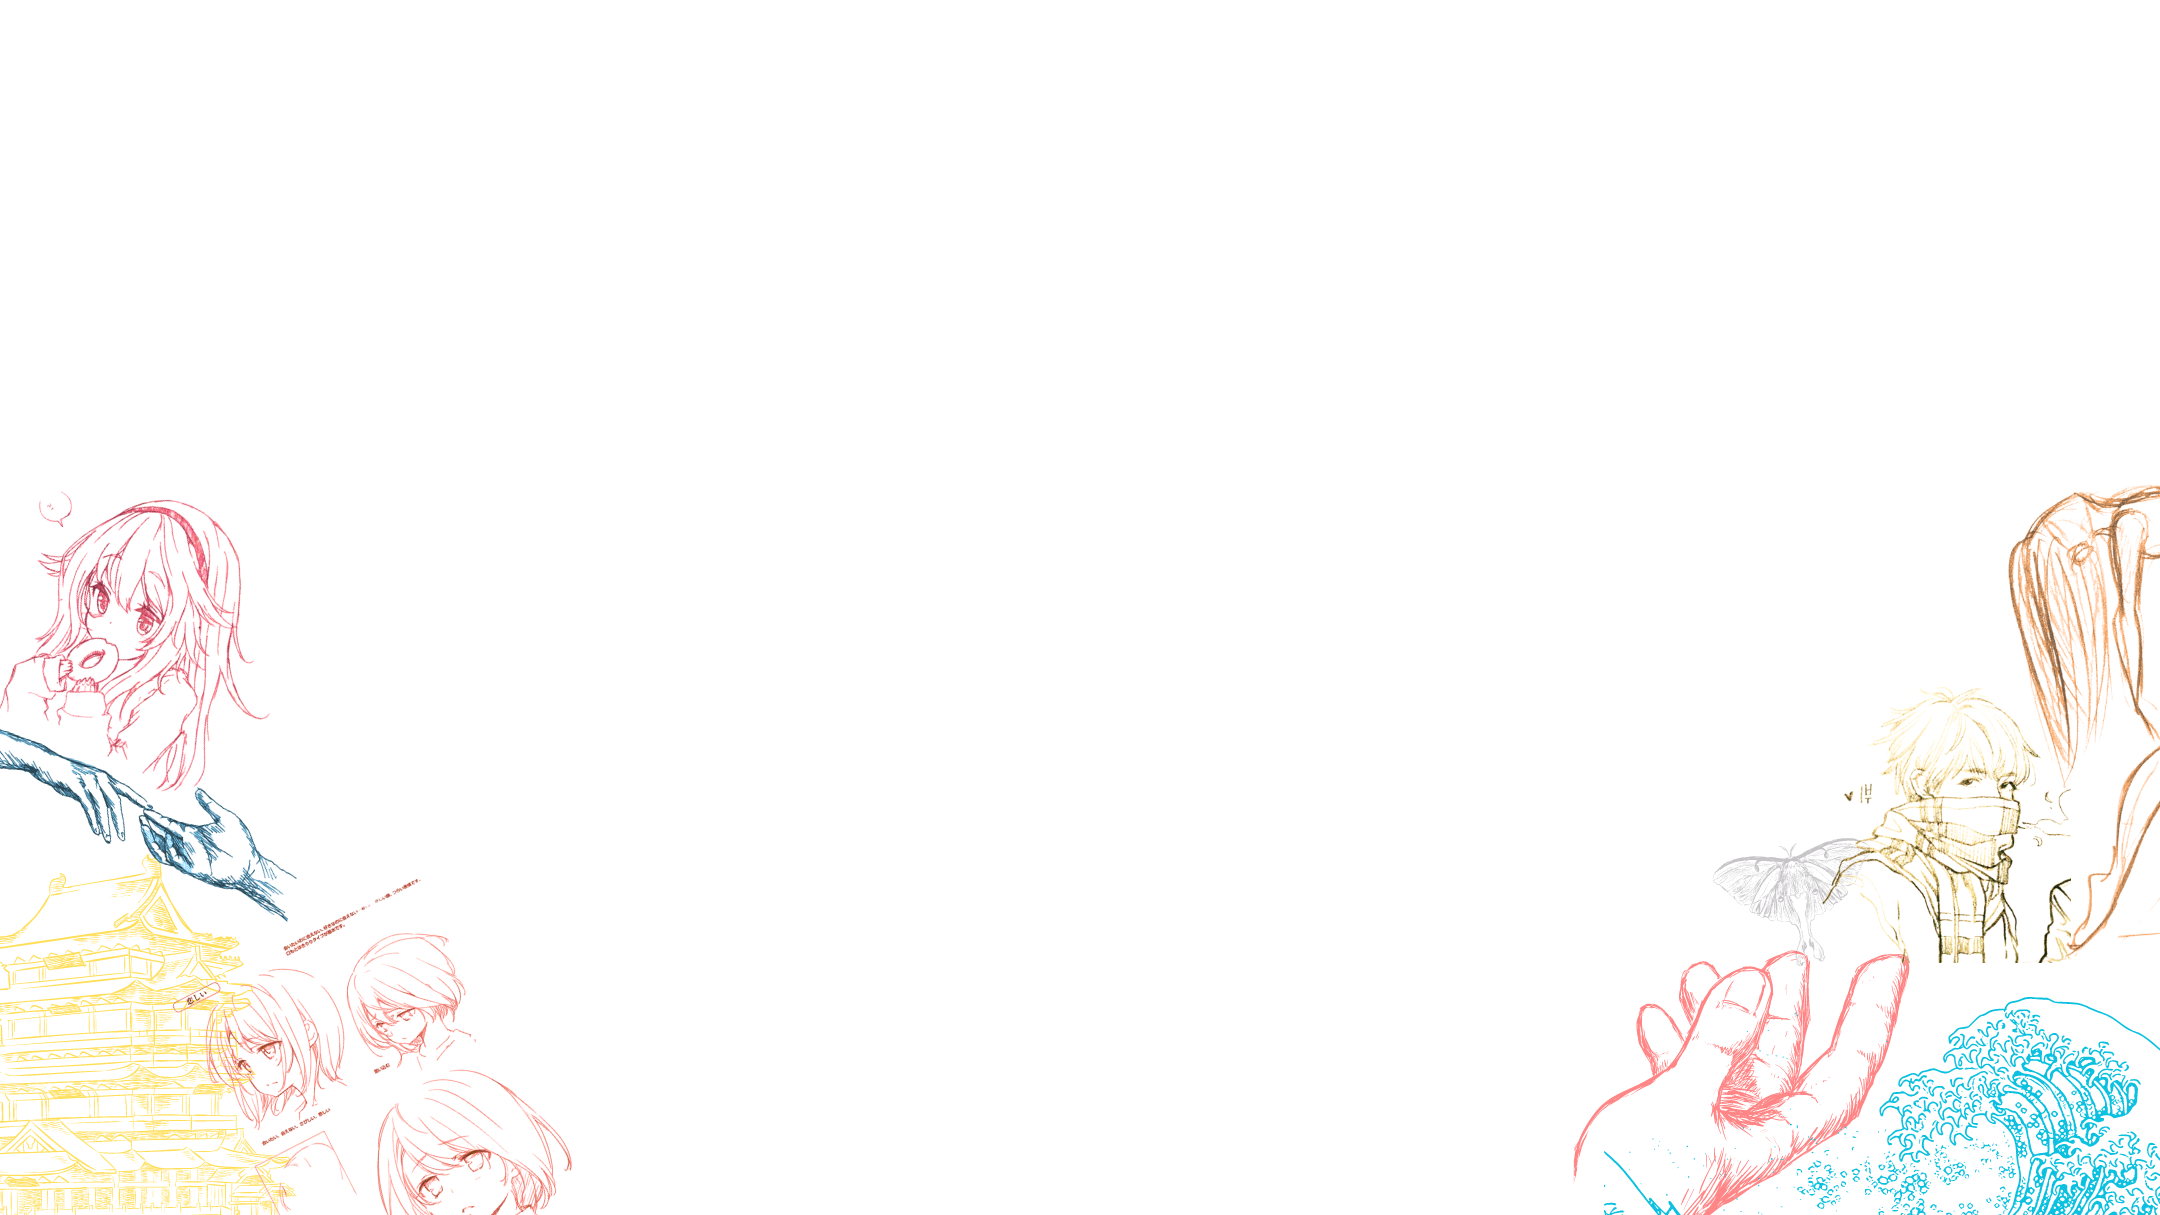
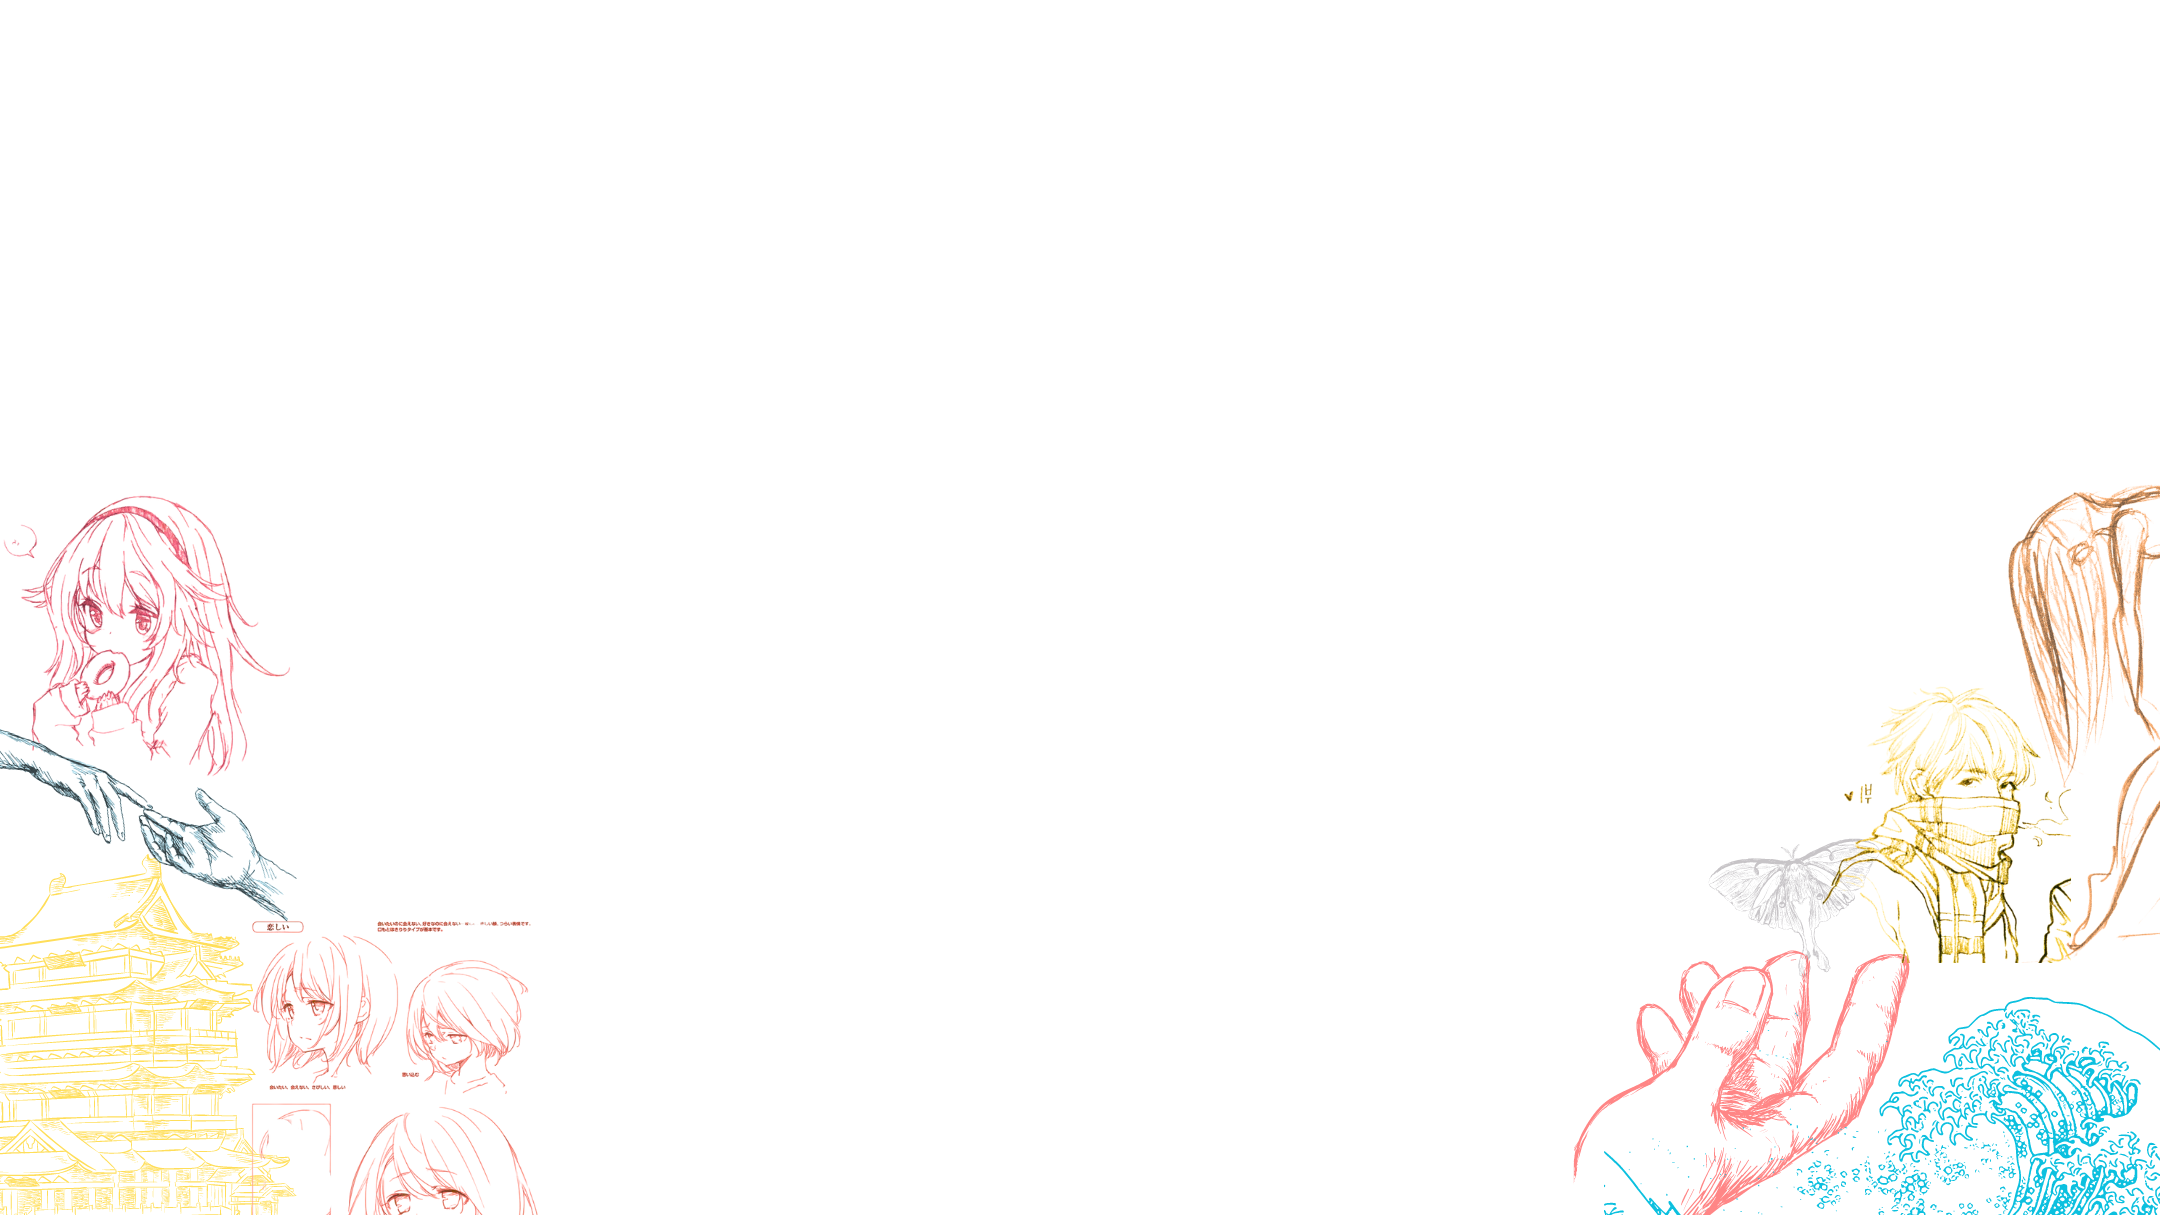
some bg changes

Changed region(s): [[0.0, 0.3959, 0.2792, 1.0], [0.8065, 0.6091, 0.9616, 0.7918]]

diff --git a/css/virtualExhibit.css b/css/virtualExhibit.css
@@ -8,7 +8,7 @@ body{
 	/* removes the horizontal scrollwheel */
 	overflow-x: hidden;
   margin-top: 100px;
-	background-image: linear-gradient(to bottom, rgba( 29, 29, 28, 1) 25%, rgba(29, 29, 28, .7) 100%), url("bgdark.png");
+	background-image: linear-gradient(to bottom, rgba( 29, 29, 28, 1) 25%, rgba(29, 29, 28, .7) 100%), url("bg2.png");
 	background-position: center center;
 	background-repeat: no-repeat;
 	background-attachment: fixed;

diff --git a/css/profUpStyle.css b/css/profUpStyle.css
@@ -5,7 +5,7 @@ body {
     overflow-x: hidden;
 	margin-top: 200px;
 	background-color: #1d1d1c;
-	background-image: linear-gradient(to bottom, rgba(29, 29, 28, .7) 25%, rgba(29, 29, 28, .7) 100%), url("bgdark.png");
+	background-image: linear-gradient(to bottom, rgba(29, 29, 28, .7) 25%, rgba(29, 29, 28, .7) 100%), url("bgdarkc.png");
 	background-position: center center;
 	background-repeat: no-repeat;
 	background-attachment: fixed;

diff --git a/css/galleryreadStyle.css b/css/galleryreadStyle.css
@@ -2,7 +2,7 @@ body {
   overflow-x: hidden;
 	margin-top: 200px;
 	background-color: #1d1d1c;
-	background-image: linear-gradient(to bottom, rgba(29, 29, 28, .7) 25%, rgba(29, 29, 28, .7) 100%), url("bgdark.png");
+	background-image: linear-gradient(to bottom, rgba(29, 29, 28, .7) 25%, rgba(29, 29, 28, .7) 100%), url("bgdarkcc.png");
 	background-position: center center;
 	background-repeat: no-repeat;
 	background-attachment: fixed;

diff --git a/css/mainPageStyle.css b/css/mainPageStyle.css
@@ -8,7 +8,7 @@ body{
 	overflow-x: hidden;
 	margin-top: 200px;
 	background-color: #1d1d1c;
-	background-image: linear-gradient(to bottom, rgba(29, 29, 28, .7) 25%, rgba(29, 29, 28, .7) 100%), url("bg.png");
+	background-image: linear-gradient(to bottom, rgba(29, 29, 28, .7) 25%, rgba(29, 29, 28, .7) 100%), url("bg1.png");
 	background-position: center center;
 	background-repeat: no-repeat;
 	background-attachment: fixed;

diff --git a/css/crudeStyle.css b/css/crudeStyle.css
@@ -1,5 +1,5 @@
 body {
-    background-image: url("bgdarkc.png");
+    background-image: url("bgdarkcc.png");
     background-position: center center;
 	background-repeat: no-repeat;
 	background-attachment: fixed;
